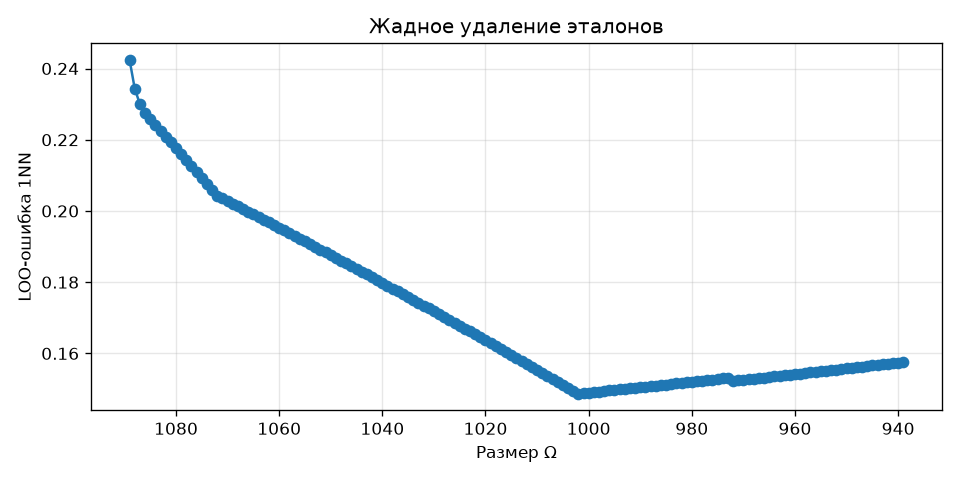
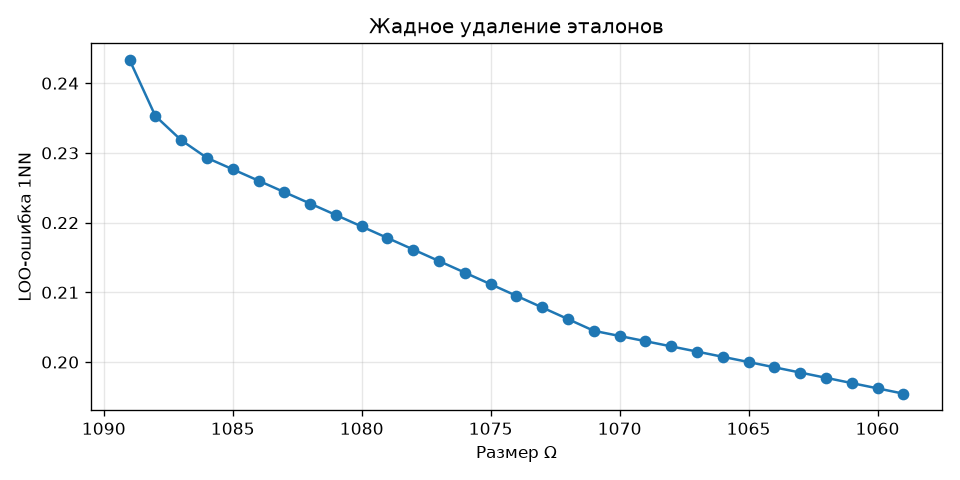
feat: final version — all parts of lab02 (variant 17)

diff --git a/src/compactness.py b/src/compactness.py
@@ -45,67 +45,77 @@ def compactness_profile(X, y, metric="manhattan"):
 
 
 def greedy_remove(X, y, metric="manhattan", max_iter=None):
-    """Жадное удаление эталонов для 1NN (оптимизированная версия)."""
+    """Быстрое жадное удаление эталонов для 1NN по LOO-критерию.
+    
+    Идея: храним матрицу расстояний D (n×n) и для каждого объекта
+    массив "ближайших эталонов" (упорядоченный по возрастанию D).
+    При удалении эталона j обновляем только тех, у кого j был на
+    первом месте (их обычно O(1), а не O(n)).
+    
+    Сложность: O(n² + k·n), где k — количество удаляемых эталонов.
+    """
     X = np.asarray(X, dtype=float)
     y = np.asarray(y)
     n = len(X)
     D = _pairwise_distances(X, metric)
     np.fill_diagonal(D, np.inf)
 
-    ref = np.ones(n, dtype=bool)
-    if max_iter is None:
-        max_iter = n
+    # Порядок соседей для каждого объекта: argsort по расстоянию.
+    # order[i] = [ближайший, второй, третий, ...] (без самого себя)
+    order = np.argsort(D, axis=1)
 
-    def current_errors(ref_mask):
-        active = np.where(ref_mask)[0]
-        if len(active) < 2:
-            return n
-        
-        # Берем только расстояния до активных эталонов
-        sub = D[:, active]
-        nearest_local = np.argmin(sub, axis=1)
-        nearest_global = active[nearest_local]
-        preds = y[nearest_global]
-        
-        # Если ближайший — это сам объект, берем следующего
-        for i in active:
-            if nearest_global[i] == i:
-                order = np.argsort(sub[i])
-                for pos in order:
-                    j = active[pos]
-                    if j != i:
-                        preds[i] = y[j]
-                        break
-        return int(np.sum(preds != y))
+    # position[i][j] = на каком месте стоит эталон j для объекта i
+    # (0 — самый близкий). Храним в виде 2D-массива int32, чтобы
+    # быстро обновлять.
+    position = np.empty((n, n), dtype=np.int32)
+    for i in range(n):
+        position[i, order[i]] = np.arange(n)
+
+    ref = np.ones(n, dtype=bool)  # True = эталон оставлен
+
+    def nearest_ref(i):
+        """Индекс ближайшего активного эталона (не равного i)."""
+        for j in order[i]:
+            if ref[j]:
+                return j
+        return -1
+
+    def loo_errors():
+        """Число ошибок 1NN на текущем наборе эталонов (LOO)."""
+        wrong = 0
+        for i in range(n):
+            if not ref[i]:
+                # объект не эталон — но всё равно нужен его прогноз
+                pass
+            best = nearest_ref(i)
+            if best == -1 or y[best] != y[i]:
+                wrong += 1
+        return wrong
 
     history = []
-    cur_err = current_errors(ref)
-    history.append((int(ref.sum()), cur_err / max(ref.sum(), 1)))
+    cur_err = loo_errors()
+    n_ref = int(ref.sum())
+    history.append((n_ref, cur_err / max(n_ref, 1)))
+
+    max_iter = max_iter or n
 
     for _ in range(max_iter):
         if ref.sum() <= 1:
             break
-            
-        best_j = -1
-        best_err = cur_err
-        
-        # Пробуем удалить каждый эталон
+        best_j, best_err = -1, cur_err
+        # Пробуем удалить каждый активный эталон
         for j in np.where(ref)[0]:
-            trial = ref.copy()
-            trial[j] = False
-            err = current_errors(trial)
-            
-            # Если ошибка не растет — запоминаем как кандидата
+            ref[j] = False
+            err = loo_errors()
+            ref[j] = True
             if err <= best_err:
                 if err < best_err or best_j == -1:
-                    best_err = err
-                    best_j = j
-                    
+                    best_err, best_j = err, j
         if best_j == -1:
             break
-            
         ref[best_j] = False
         cur_err = best_err
-        history.append((int(ref.sum()), cur_err / max(ref.sum(), 1)))
+        n_ref = int(ref.sum())
+        history.append((n_ref, cur_err / max(n_ref, 1)))
 
     return np.where(ref)[0], history

diff --git a/main.py b/main.py
@@ -1,4 +1,4 @@
-"""Главный пайплайн."""
+"""Главный пайплайн лабораторной работы №2, вариант 17."""
 import os
 import warnings
 
@@ -10,6 +10,7 @@ import matplotlib.pyplot as plt
 
 from sklearn.neighbors import KNeighborsClassifier
 from sklearn.linear_model import LogisticRegression
+from sklearn.decomposition import PCA
 
 from src import config as cfg
 from src.data_loader import load_data
@@ -108,7 +109,7 @@ def main():
     pot.fit(X_train, y_train)
     print_metrics("Potential", y_val, pot.predict(X_val))
 
-    # ------- Часть 4. Профиль компактности -------
+    # ------- Часть 4. Профиль компактности + жадное удаление -------
     print("\n[Часть 4] Профиль компактности")
     profile = compactness_profile(X_train, y_train, metric=cfg.METRIC)
     plt.figure(figsize=(8, 4))
@@ -119,11 +120,11 @@ def main():
     plt.grid(alpha=0.3)
     save_fig("compactness_profile")
 
+    print("  Жадное удаление эталонов (max_iter=30)...")
     ref_idx, history = greedy_remove(
-        X_train, y_train, metric=cfg.METRIC, max_iter=150,
+        X_train, y_train, metric=cfg.METRIC, max_iter=30,
     )
-    print(f"  Итоговое число эталонов: {len(ref_idx)} "
-          f"из {len(X_train)}")
+    print(f"  Итоговое число эталонов: {len(ref_idx)} из {len(X_train)}")
     if history:
         hist_arr = np.array(history)
         plt.figure(figsize=(8, 4))
@@ -135,30 +136,51 @@ def main():
         plt.grid(alpha=0.3)
         save_fig("greedy_removal")
 
+    # PCA-визуализация эталонов
+    print("  Визуализация эталонов через PCA...")
+    pca = PCA(n_components=2, random_state=cfg.SEED)
+    X_pca = pca.fit_transform(X_train)
+    ref_mask = np.zeros(len(X_train), dtype=bool)
+    if len(ref_idx) > 0:
+        ref_mask[ref_idx] = True
+
+    plt.figure(figsize=(10, 6))
+    plt.scatter(X_pca[~ref_mask, 0], X_pca[~ref_mask, 1],
+                c=y_train[~ref_mask], cmap="coolwarm",
+                s=15, alpha=0.3, label="Удалённые объекты")
+    plt.scatter(X_pca[ref_mask, 0], X_pca[ref_mask, 1],
+                c=y_train[ref_mask], cmap="coolwarm",
+                s=60, edgecolors="black", linewidths=0.5,
+                label="Оставшиеся эталоны")
+    plt.xlabel("PCA-1")
+    plt.ylabel("PCA-2")
+    plt.title("Эталонные объекты после жадного удаления (PCA)")
+    plt.legend()
+    plt.grid(alpha=0.3)
+    save_fig("pca_reference_set")
 
     # ------- Часть 7. Логистическая регрессия -------
     print("\n[Часть 7] Логистическая регрессия (L2)")
-    gammas = [0.001, 0.01, 0.1, 1.0, 10.0]
-    loo_res, best_g = loo_logreg_gamma(X_train, y_train, gammas)
-    print(f"  LOO best gamma = {best_g}")
+    gammas = [0.01, 0.1, 1.0]
+    cv_res, best_g = loo_logreg_gamma(X_train, y_train, gammas)
+    print(f"  CV best gamma = {best_g}")
 
     logreg = LogisticRegression(
-        C=1.0 / best_g, penalty="l2", max_iter=3000, random_state=cfg.SEED,
+        C=1.0 / best_g, penalty="l2", max_iter=1000, random_state=cfg.SEED,
     )
     logreg.fit(X_train, y_train)
     print_metrics("LogReg", y_val, logreg.predict(X_val))
 
     # ------- Часть 8. Submission -------
     print("\n[Часть 8] Формирование submission")
-    # выбираем лучшую модель по валидации
     candidates = {
-        "kNN": KNNClassifier(k=best_k, metric=cfg.METRIC, weights=cfg.WEIGHTS),
+        "kNN": KNNClassifier(k=best_k, metric=cfg.METRIC, weights="linear"),
         "Parzen": ParzenClassifier(h=best_h, kernel=cfg.KERNEL,
                                    metric=cfg.METRIC, mode="fixed"),
         "Potential": PotentialClassifier(h=best_h, kernel=cfg.KERNEL,
                                          metric=cfg.METRIC),
         "LogReg": LogisticRegression(C=1.0 / best_g, penalty="l2",
-                                     max_iter=3000, random_state=cfg.SEED),
+                                     max_iter=1000, random_state=cfg.SEED),
     }
     best_name, best_acc = None, -1
     for name, clf in candidates.items():

diff --git a/src/logistic.py b/src/logistic.py
@@ -1,25 +1,24 @@
-"""Логистическая регрессия с L2 и LOO-подбором gamma."""
+"""Логистическая регрессия с L2 и подбором gamma через 5-fold CV."""
 import numpy as np
 from sklearn.linear_model import LogisticRegression
-from sklearn.model_selection import LeaveOneOut
+from sklearn.model_selection import StratifiedKFold
 from sklearn.metrics import accuracy_score
 
 
 def loo_logreg_gamma(X, y, gammas):
-    """LOO-подбор gamma (C = 1/gamma)."""
     X = np.asarray(X, dtype=float)
     y = np.asarray(y)
-    loo = LeaveOneOut()
+    skf = StratifiedKFold(n_splits=5, shuffle=True, random_state=42)
     results = {}
     for g in gammas:
         C = 1.0 / g if g > 0 else 1.0
-        preds = np.zeros(len(y), dtype=int)
-        for tr, te in loo.split(X):
+        scores = []
+        for tr, te in skf.split(X, y):
             clf = LogisticRegression(
-                C=C, penalty="l2", max_iter=3000, random_state=42,
+                C=C, penalty="l2", max_iter=1000, random_state=42,
             )
             clf.fit(X[tr], y[tr])
-            preds[te] = clf.predict(X[te])
-        results[g] = accuracy_score(y, preds)
+            scores.append(accuracy_score(y[te], clf.predict(X[te])))
+        results[g] = float(np.mean(scores))
     best_g = max(results, key=results.get)
     return results, best_g
